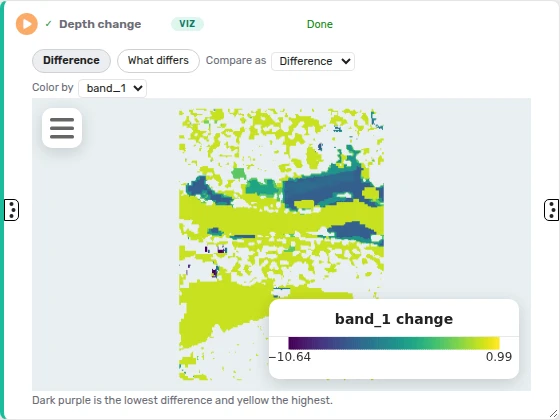
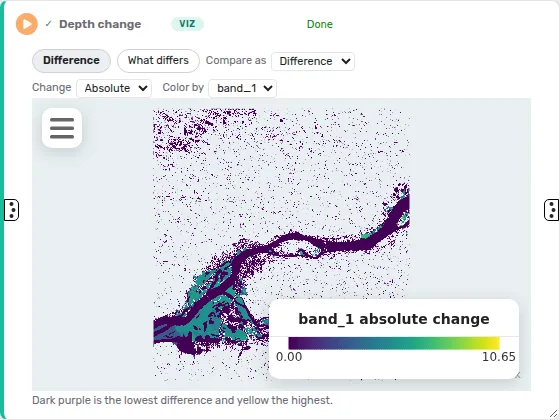
SCOUT stills from the approved routing and flood frames: two routes in scenario colors, absolute depth change

diff --git a/site/scout.md b/site/scout.md
@@ -49,7 +49,7 @@ FloodScenarios is SCOUT's flood study of the Quad Cities, built from Curio's own
 
 Two Compare Scenarios nodes then map the size of the change in depth between No NbS and NbS, and chart each scenario's median depth. A pip install downloads the flood rasters from GitHub the first time a node reads them.
 
-<MediaTodo kind="still" source="e2e:scout-flood-depth-change" caption="Depth change: the size of the change in flood depth between No NbS and NbS, cell by cell, over the region the Parameter nodes set." />
+<GuideFigure src="/media/scout/flood-change.webp" alt="A Compare Scenarios node mapping the size of the change in flood depth" caption="Depth change: the size of the change in flood depth between No NbS and NbS, cell by cell, over the region the Parameter nodes set." :w="560" :h="420" />
 
 <GuideFigure src="/media/scout/flood-median.webp" alt="A Compare Scenarios node charting the median flood depth of two scenarios" caption="Median flood depth: the median depth of No NbS and NbS, as bars." :w="560" :h="420" />
 
@@ -61,6 +61,6 @@ The **Raster Calculator** and **Raster Statistics** nodes work on any rasters on
 
 WeatherRouting is SCOUT's weather routing example. An Autark node loads the roads of SCOUT's box in downtown Chicago, and one Weather Routing node finds SCOUT's two routes over them: the fastest, and the one its weather weights favor. Two scenarios, Fastest route and Weather-aware route, each keep one of them. An Autark map draws both routes over the roads in their scenarios' colors, and four Compare Scenarios nodes chart their duration, distance and rain and wind exposure.
 
-<MediaTodo kind="still" source="e2e:scout-routing-routes-map" caption="The Fastest route and the Weather-aware route over the roads of SCOUT's box, each in its scenario's color." />
+<GuideFigure src="/media/scout/routes-map.webp" alt="An Autark map of two routes over the roads of SCOUT's box in downtown Chicago" caption="The Fastest route and the Weather-aware route over the roads of SCOUT's box, each in its scenario's color." :w="526" :h="350" />
 
-<MediaTodo kind="still" source="e2e:scout-routing-duration" caption="Duration: each route's duration in minutes, as bars in its scenario's color." />
+<GuideFigure src="/media/scout/routing-duration.webp" alt="A Compare Scenarios node charting the two routes' durations as bars" caption="Duration: each route's mean duration in minutes, as bars in its scenario's color." :w="560" :h="420" />
